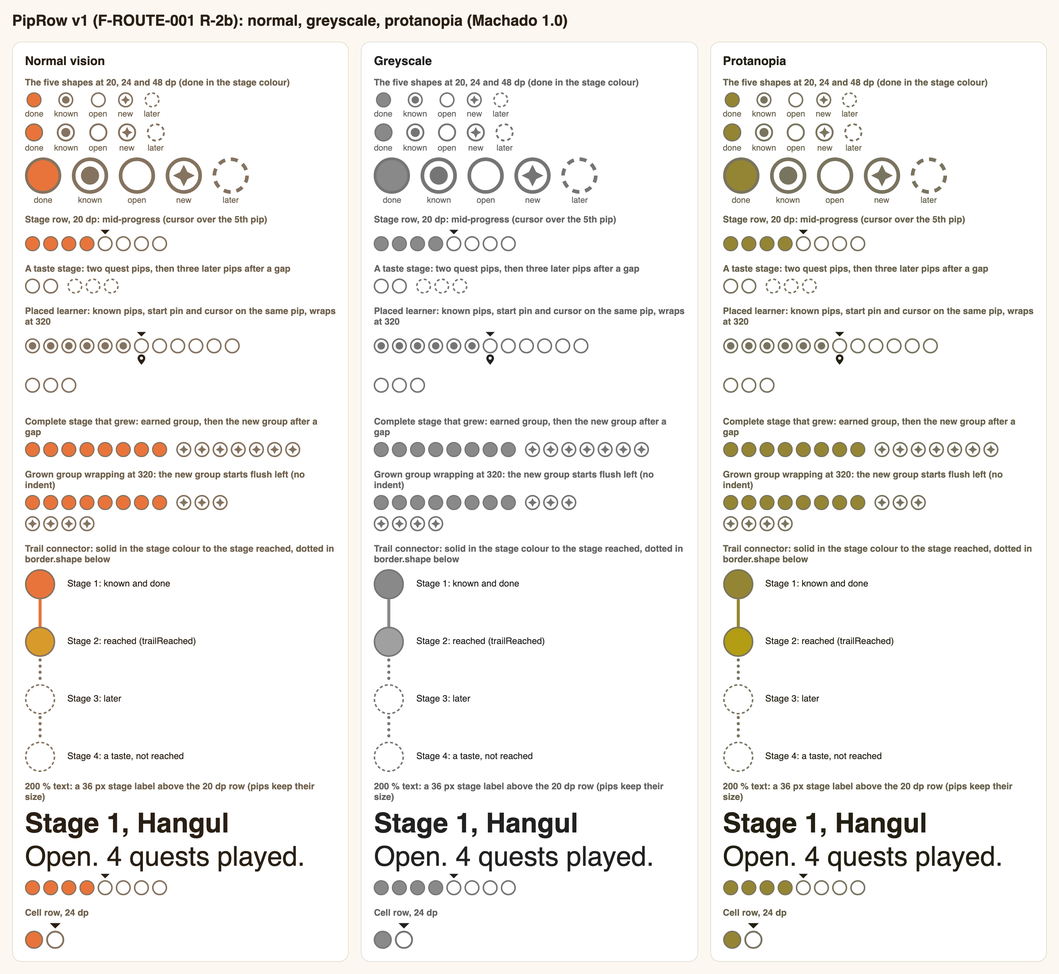
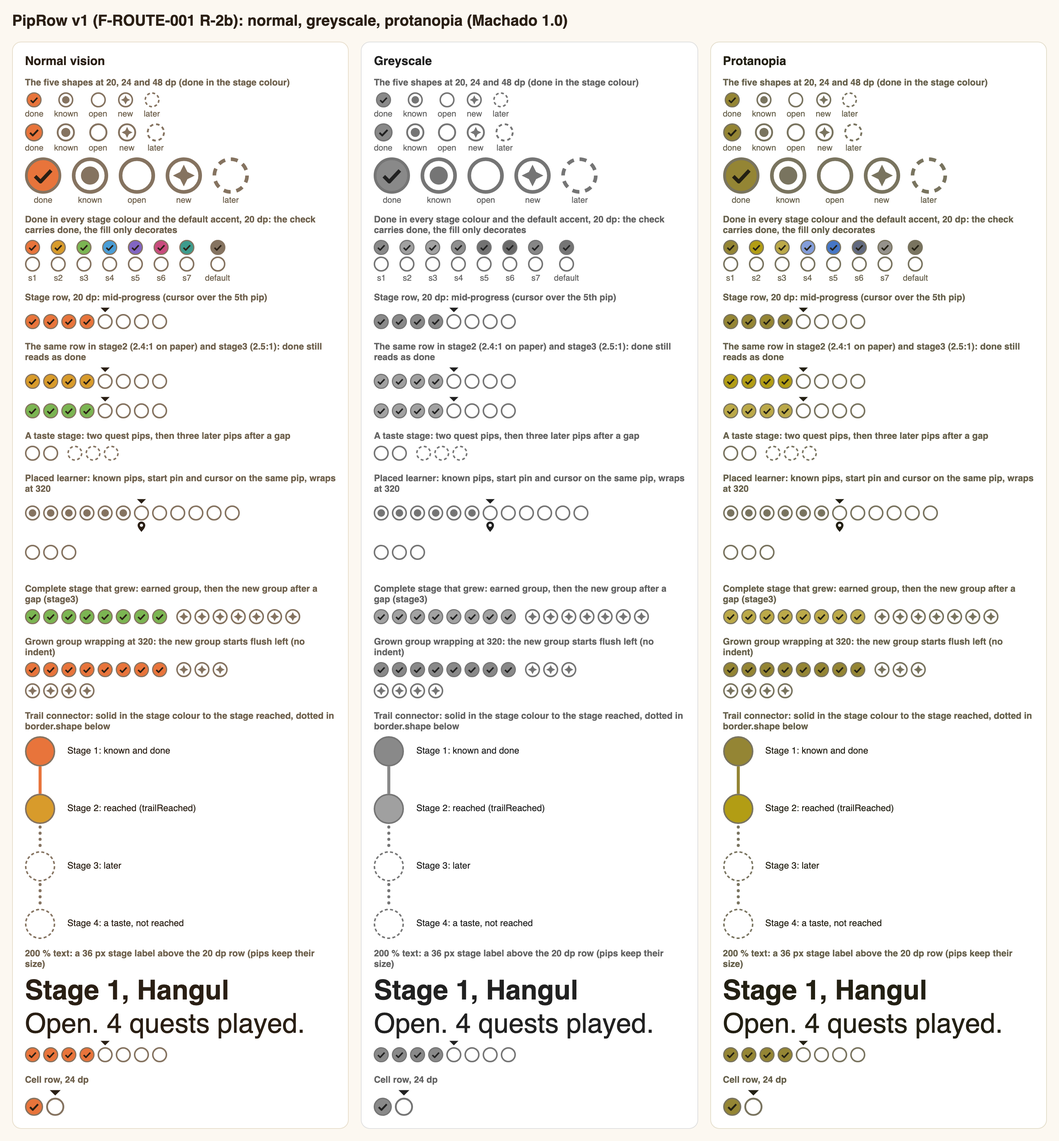
fix(design-system): done pip carries a drawn check, gaps scale with the pips, wrapper and marker contrast tests (F-ROUTE-001 R-2b)
- done = accent disc + border.shape edge + a check stroke in text.primary,
  so done is told from open by geometry, not by a stage fill that is under
  3:1 (stage2/3 everywhere, stage1/4/7 on canvas or sunken)
- geometry tests: geometric signatures instead of the JSON silhouette; the
  check holds 3:1 against every colors.stage value and the default accent
- PipRow scales the pip and group gaps with useMediaSize
- render tests run PipRow and Pip through a mocked useMediaSize (size per
  context, scaled gaps, default accent)
- contrast: text.primary markers on every surface and brand.primaryLight,
  plus the start-pin dot test the old name promised
- design spec: the check, the early-wrap edge case, scaled gaps; preview
  regenerated with every stage colour and stage2/stage3 rows

diff --git a/packages/design-system/src/components/PipRow/__tests__/geometry.test.ts b/packages/design-system/src/components/PipRow/__tests__/geometry.test.ts
@@ -4,6 +4,7 @@ import pipRowSource from '../PipRow.tsx?raw';
 import geometrySource from '../geometry.ts?raw';
 import typesSource from '../types.ts?raw';
 import indexSource from '../index.ts?raw';
+import { WCAG_AA_LARGE, contrastRatio } from '../../../contrast';
 import { colors } from '../../../tokens';
 import {
   LATER_DASHES,
@@ -89,10 +90,25 @@ describe('the five pip shapes', () => {
     }
   });
 
-  it('done: one filled disc in the accent, edged in the mark colour so its edge holds 3:1 whatever the accent', () => {
-    const parts = pipParts('done', 20);
-    expect(parts).toHaveLength(1);
-    expect(parts[0]).toMatchObject({ kind: 'circle', cx: 10, cy: 10, fill: 'accent', stroke: 'mark' });
+  it.each(SIZES)('done: a filled disc in the accent, edged in the mark colour, with a check drawn inside it in ink (%i dp)', (size) => {
+    const [disc, check, ...rest] = pipParts('done', size);
+    expect(rest).toEqual([]);
+    expect(disc).toMatchObject({ kind: 'circle', cx: size / 2, cy: size / 2, fill: 'accent', stroke: 'mark' });
+    expect(check).toMatchObject({ kind: 'path', fill: 'none', stroke: 'ink' });
+    if (disc?.kind !== 'circle' || check?.kind !== 'path') throw new Error('disc and path expected');
+    // An open stroke of three points (no Z): a check, not a closed sparkle or a disc.
+    expect(check.d).not.toMatch(/Z/);
+    const xy = coords(check.d);
+    expect(xy).toHaveLength(6);
+    expect(check.strokeWidth).toBeGreaterThanOrEqual(pipStrokeWidth(size) * 0.9);
+    // Every point plus half the stroke stays inside the disc, clear of its edge.
+    const fillEdge = disc.r - (disc.strokeWidth ?? 0) / 2;
+    for (let i = 0; i < xy.length; i += 2) {
+      expect(Math.hypot(xy[i]! - size / 2, xy[i + 1]! - size / 2) + (check.strokeWidth ?? 0) / 2).toBeLessThan(fillEdge);
+    }
+    // Wide enough to read as a mark at 20 dp, not a speck.
+    const xs = xy.filter((_, i) => i % 2 === 0);
+    expect(Math.max(...xs) - Math.min(...xs)).toBeGreaterThanOrEqual(size * 0.4);
   });
 
   it('open: one ring, 2 dp stroke, no fill', () => {
@@ -141,12 +157,50 @@ describe('the five pip shapes', () => {
     expect(off).toBeGreaterThan(1);
   });
 
-  it('the five shapes are pairwise distinct with colour taken away (greyscale, protanopia)', () => {
-    for (const size of SIZES) {
-      const shapes = PIP_STATES.map((state) => silhouette(pipParts(state, size)));
-      expect(new Set(shapes).size).toBe(PIP_STATES.length);
+  it.each(SIZES)('the five shapes differ in geometry, not in ink: outline and interior mark, accent ignored (%i dp)', (size) => {
+    const signatures = PIP_STATES.map((state) => {
+      const [outer, ...inside] = pipParts(state, size);
+      if (outer?.kind !== 'circle') throw new Error('outer circle expected');
+      // The outline with the fill treated as unknown: a greyscale or colour-blind reader may not see the accent.
+      const outline = outer.dash !== undefined ? 'dashed ring' : 'ring';
+      const interior = inside.map((p) => (p.kind === 'circle' ? 'disc' : p.fill === 'none' ? 'stroke' : 'filled path'));
+      return { state, key: `${outline}|${interior.join('+')}`, inside };
+    });
+    expect(new Set(signatures.map((s) => s.key)).size).toBe(PIP_STATES.length);
+    // Every interior mark is drawn in a non-accent ink, so the mark (not the colour) carries the state.
+    for (const { state, inside } of signatures) {
+      for (const p of inside) {
+        expect(p.fill === 'accent' || p.stroke === 'accent', state).toBe(false);
+        expect(p.fill === 'paper' || p.stroke === 'paper', state).toBe(false);
+      }
+    }
+    // done is told from open by its check, which open does not have, not by the fill alone.
+    expect(signatures.find((s) => s.state === 'done')!.inside.length).toBeGreaterThan(0);
+    expect(signatures.find((s) => s.state === 'open')!.inside).toEqual([]);
+  });
+
+  // Spec 3.14: the stage colour decorates. Whatever accent fills a done disc
+  // (every stage colour, or the default), the check that carries "done" holds
+  // 3:1 against that fill, and the edge holds 3:1 against every surface.
+  const accents = { ...Object.fromEntries(Object.entries(colors.stage).map(([k, v]) => [`stage.${k}`, v])), 'default (border.shape)': colors.border.shape };
+  it.each(Object.entries(accents))('done on a %s fill: the check holds 3:1 against the fill (non-text)', (_name, accent) => {
+    const marks = pipParts('done', 20).slice(1);
+    expect(marks.length).toBeGreaterThan(0);
+    for (const p of marks) {
+      const ink = p.stroke ?? p.fill;
+      if (ink === 'none') throw new Error('a mark needs an ink');
+      expect(contrastRatio(pipInk(ink, accent), accent)).toBeGreaterThanOrEqual(WCAG_AA_LARGE);
     }
   });
+
+  it.each([colors.surface.paper, colors.surface.canvas, colors.surface.sunken, colors.brand.primaryLight])(
+    'done: the disc edge holds 3:1 against the surface %s whatever the fill',
+    (surface) => {
+      const [disc] = pipParts('done', 20);
+      expect(disc).toMatchObject({ stroke: 'mark' });
+      expect(contrastRatio(pipInk('mark', colors.stage.stage2), surface)).toBeGreaterThanOrEqual(WCAG_AA_LARGE);
+    },
+  );
 
   it('only a done pip uses the accent: the stage colour decorates, the shape carries the meaning', () => {
     for (const state of PIP_STATES.filter((s): s is Exclude<PipState, 'done'> => s !== 'done')) {

diff --git a/packages/design-system/src/components/PipRow/__tests__/PipRow.test.tsx b/packages/design-system/src/components/PipRow/__tests__/PipRow.test.tsx
@@ -2,8 +2,8 @@ import React from 'react';
 import { describe, expect, it, vi } from 'vitest';
 import { colors, spacing } from '../../../tokens';
 import { cursorMarkerParts, markerBand, pipInk, pipParts, startBand, startMarkerParts, type PipPart } from '../geometry';
-import { PipParts, PipSvg } from '../Pip';
-import { PipRowBody } from '../PipRow';
+import { Pip, PipParts, PipSvg } from '../Pip';
+import { PipRow, PipRowBody } from '../PipRow';
 
 /**
  * The element trees of PipRow and Pip (component-skill section 3.1), built by
@@ -13,6 +13,8 @@ import { PipRowBody } from '../PipRow';
  */
 vi.mock('react-native', () => ({ View: 'View', useWindowDimensions: () => ({ width: 400, height: 800 }) }));
 vi.mock('react-native-svg', () => ({ default: 'Svg', Svg: 'Svg', Circle: 'Circle', G: 'G', Path: 'Path' }));
+// A regular-class window: every media size is scaled by 1.5 (useMediaSize rounds base x mediaScale).
+vi.mock('../../Layout/LayoutProvider', () => ({ useMediaSize: (base: number) => Math.round(base * 1.5) }));
 
 type Props = Record<string, unknown>;
 type El = React.ReactElement<Props>;
@@ -37,9 +39,11 @@ describe('PipParts: geometry parts as svg', () => {
     });
   });
 
-  it('fills a done disc with the accent and edges it in border.shape', () => {
-    const [disc] = kids(PipParts({ parts: pipParts('done', 20), accent: ACCENT }) as El);
+  it('fills a done disc with the accent, edges it in border.shape and draws the check in text.primary with round ends', () => {
+    const [disc, check] = kids(PipParts({ parts: pipParts('done', 20), accent: ACCENT }) as El);
     expect(disc!.props).toMatchObject({ fill: ACCENT, stroke: colors.border.shape, strokeDasharray: undefined });
+    expect(check!.type).toBe('Path');
+    expect(check!.props).toMatchObject({ fill: 'none', stroke: colors.text.primary, strokeLinecap: 'round', strokeLinejoin: 'round' });
   });
 
   it('draws paths (the sparkle, the markers) with their ink and a round join, offset by offsetY', () => {
@@ -124,5 +128,35 @@ describe('PipRowBody', () => {
   it('reserves only the start band for a start pin without the cursor', () => {
     const [cell] = kids(PipRowBody({ groups: [[{ key: 'a', state: 'open', isStart: true }]], size, accent: ACCENT }) as El);
     expect(kids(cell!)[0]!.props).toMatchObject({ height: size + startBand(size) });
+  });
+});
+
+describe('PipRow and Pip: context to size through useMediaSize, and the default accent', () => {
+  it('a cell row passes the scaled 24 dp size, the scaled gaps and border.shape as the accent to its body', () => {
+    const groups = [[{ key: 'a', state: 'done' as const }]];
+    const el = PipRow({ groups, context: 'cell', testID: 'row' }) as El;
+    expect(el.type).toBe(PipRowBody);
+    expect(el.props).toMatchObject({ groups, size: 36, accent: colors.border.shape, testID: 'row', gaps: { pip: 6, group: 18 } });
+  });
+
+  it('a stage row (the default) passes the scaled 20 dp size and keeps a caller accent', () => {
+    const el = PipRow({ groups: [], accent: colors.stage.stage3 }) as El;
+    expect(el.props).toMatchObject({ size: 30, accent: colors.stage.stage3 });
+  });
+
+  it('the legend pip passes the scaled size per context and border.shape as the default accent', () => {
+    expect((Pip({ state: 'open' }) as El).props).toMatchObject({ state: 'open', size: 30, accent: colors.border.shape });
+    expect((Pip({ state: 'done', context: 'cell', accent: colors.stage.stage2 }) as El).props).toMatchObject({ size: 36, accent: colors.stage.stage2 });
+  });
+
+  it('the body lays the row out with the gaps it is given', () => {
+    const row = PipRowBody({
+      groups: [[{ key: 'a', state: 'done' }], [{ key: 'b', state: 'new' }]],
+      size: 30,
+      accent: ACCENT,
+      gaps: { pip: 6, group: 18 },
+    }) as El;
+    expect(row.props.style).toMatchObject({ columnGap: 6, rowGap: 6 });
+    expect(kids(row).map((c) => (c.props.style as { marginRight: number }).marginRight)).toEqual([12, 0]);
   });
 });

diff --git a/packages/design-system/src/components/PipRow/PipRow.tsx b/packages/design-system/src/components/PipRow/PipRow.tsx
@@ -7,7 +7,13 @@ import { PIP_SIZE, cursorMarkerParts, markerBand, pipParts, pipRowBands, pipRowC
 import { PipParts } from './Pip';
 import type { PipRowProps } from './types';
 
+/** Unscaled gaps: `spacing.xs` between pips and lines, `spacing.md` between groups. */
 const GAPS = { pip: spacing.xs, group: spacing.md } as const;
+
+export interface PipRowGaps {
+  pip: number;
+  group: number;
+}
 
 /**
  * PipRow (F-ROUTE-001 R-2b; design/components/PipRow/spec.md): one drawn
@@ -25,7 +31,9 @@ const GAPS = { pip: spacing.xs, group: spacing.md } as const;
  */
 export function PipRow({ groups, context = 'stage', accent = colors.border.shape, testID }: PipRowProps): React.ReactElement {
   const size = useMediaSize(PIP_SIZE[context]);
-  return <PipRowBody groups={groups} size={size} accent={accent} testID={testID} />;
+  // The gaps scale with the pips, so the group gap still reads as a gap on wide windows (wireframe C5).
+  const gaps = { pip: useMediaSize(GAPS.pip), group: useMediaSize(GAPS.group) };
+  return <PipRowBody groups={groups} size={size} accent={accent} gaps={gaps} testID={testID} />;
 }
 
 /** The row for a resolved pip size, without hooks (tested by calling it). */
@@ -33,8 +41,9 @@ export function PipRowBody({
   groups,
   size,
   accent,
+  gaps = GAPS,
   testID,
-}: Pick<PipRowProps, 'groups' | 'testID'> & { size: number; accent: string }): React.ReactElement {
+}: Pick<PipRowProps, 'groups' | 'testID'> & { size: number; accent: string; gaps?: PipRowGaps }): React.ReactElement {
   const bands = pipRowBands(groups);
   const top = bands.top ? markerBand(size) : 0;
   const height = top + size + (bands.bottom ? startBand(size) : 0);
@@ -44,10 +53,10 @@ export function PipRowBody({
       importantForAccessibility="no-hide-descendants"
       accessibilityElementsHidden
       aria-hidden
-      style={{ flexDirection: 'row', flexWrap: 'wrap', alignItems: 'flex-start', columnGap: GAPS.pip, rowGap: spacing.xs }}
+      style={{ flexDirection: 'row', flexWrap: 'wrap', alignItems: 'flex-start', columnGap: gaps.pip, rowGap: gaps.pip }}
     >
-      {pipRowCells(groups, GAPS).map((cell) => (
-        <View key={cell.key} style={{ marginRight: Math.max(0, cell.trailingGap - GAPS.pip) }}>
+      {pipRowCells(groups, gaps).map((cell) => (
+        <View key={cell.key} style={{ marginRight: Math.max(0, cell.trailingGap - gaps.pip) }}>
           <Svg width={size} height={height} viewBox={`0 0 ${size} ${height}`}>
             {cell.isCursor ? <PipParts parts={cursorMarkerParts(size)} accent={accent} /> : null}
             <PipParts parts={pipParts(cell.state, size)} accent={accent} offsetY={top} />

diff --git a/packages/design-system/src/components/PipRow/geometry.ts b/packages/design-system/src/components/PipRow/geometry.ts
@@ -9,10 +9,11 @@ export type { PipContext, PipState, PipView } from './types';
  * unit-tested in node. A pip is drawn in a `size x size` box; the cursor and
  * start markers each sit in a band of `markerBand(size)` above or below it.
  *
- * The meaning is in the shape, never only in the colour: a done disc, a ring
- * with an inner disc (known), a plain ring (open), a ring with a sparkle (new),
+ * The meaning is in the shape, never only in the colour: a done disc with a
+ * check inside, a ring with an inner disc (known), a plain ring (open), a ring with a sparkle (new),
  * a dotted ring (later). Every outline is `border.shape` (3:1 on every surface);
- * only a done pip uses the caller's accent (the stage colour, decoration).
+ * only a done pip uses the caller's accent (the stage colour, decoration), and
+ * its check in `text.primary` carries the state whatever that accent is.
  */
 
 /** Pip side in dp per context (spec section 3.4). */
@@ -76,13 +77,31 @@ function sparklePath(size: number): string {
   return `${pts.map(([x, y], i) => `${i === 0 ? 'M' : 'L'}${round(x)} ${round(y)}`).join(' ')} Z`;
 }
 
+/**
+ * The check inside a done disc: an open three-point stroke in `ink`. It, not
+ * the accent fill, tells done from open (spec 3.14: the stage colour only
+ * decorates; stage2 and stage3 are 2.4:1 on paper), and `text.primary` holds
+ * at least 3:1 against every stage colour and the default accent (tested).
+ */
+function checkPath(size: number): string {
+  const pts: Array<[number, number]> = [
+    [size * 0.28, size * 0.52],
+    [size * 0.43, size * 0.67],
+    [size * 0.72, size * 0.36],
+  ];
+  return pts.map(([x, y], i) => `${i === 0 ? 'M' : 'L'}${round(x)} ${round(y)}`).join(' ');
+}
+
 /** The parts of one pip, in a `size x size` box, drawn in order. */
 export function pipParts(state: PipState, size: number): PipPart[] {
   const base = ring(size);
   switch (state) {
     case 'done': {
       const edge = pipStrokeWidth(size) * 0.75;
-      return [{ kind: 'circle', cx: size / 2, cy: size / 2, r: size / 2 - edge / 2, fill: 'accent', stroke: 'mark', strokeWidth: edge }];
+      return [
+        { kind: 'circle', cx: size / 2, cy: size / 2, r: size / 2 - edge / 2, fill: 'accent', stroke: 'mark', strokeWidth: edge },
+        { kind: 'path', d: checkPath(size), fill: 'none', stroke: 'ink', strokeWidth: pipStrokeWidth(size) },
+      ];
     }
     case 'known':
       return [base, { kind: 'circle', cx: size / 2, cy: size / 2, r: size / 4, fill: 'mark' }];

diff --git a/packages/design-system/src/__tests__/contrast.test.ts b/packages/design-system/src/__tests__/contrast.test.ts
@@ -132,9 +132,17 @@ describe('token contrast contract (WCAG AA)', () => {
     },
   );
 
-  // The pip markers are drawn in text.primary; the start pin's dot is paper on it.
-  it('PipRow markers (text.primary) on paper and its paper dot ≥ 3:1 (non-text)', () => {
-    expect(contrastRatio(colors.text.primary, colors.surface.paper)).toBeGreaterThanOrEqual(WCAG_AA_LARGE);
+  // The cursor triangle and the start pin are drawn in text.primary on whatever surface the row
+  // sits on; the start pin's paper dot sits on the text.primary drop.
+  it.each([...Object.entries(surfaces), ['brand.primaryLight', colors.brand.primaryLight] as const])(
+    'PipRow markers (text.primary) on %s ≥ 3:1 (non-text)',
+    (_name, bg) => {
+      expect(contrastRatio(colors.text.primary, bg)).toBeGreaterThanOrEqual(WCAG_AA_LARGE);
+    },
+  );
+
+  it('the start pin dot (surface.paper) on its text.primary drop ≥ 3:1 (non-text)', () => {
+    expect(contrastRatio(colors.surface.paper, colors.text.primary)).toBeGreaterThanOrEqual(WCAG_AA_LARGE);
   });
 
   // border.strong stays a quiet divider: it is NOT a 3:1 graphic, which is why the pips need border.shape.

diff --git a/packages/design-system/src/components/PipRow/Pip.tsx b/packages/design-system/src/components/PipRow/Pip.tsx
@@ -24,7 +24,7 @@ export function PipParts({ parts, accent, offsetY = 0 }: { parts: readonly PipPa
             strokeDasharray={part.dash === undefined ? undefined : [...part.dash]}
           />
         ) : (
-          <Path key={index} d={part.d} fill={pipInk(part.fill, accent)} stroke={stroke} strokeWidth={part.strokeWidth} strokeLinejoin="round" />
+          <Path key={index} d={part.d} fill={pipInk(part.fill, accent)} stroke={stroke} strokeWidth={part.strokeWidth} strokeLinecap="round" strokeLinejoin="round" />
         );
       })}
     </G>

diff --git a/design/components/PipRow/spec.md b/design/components/PipRow/spec.md
@@ -2,7 +2,7 @@
 
 Spec: `docs/specs/F-ROUTE-001-my-route-overview.md` §3.4 (pips and cells), §3.5 (cursor), §3.6 (start marker), §3.14 (no colour-only meaning, border token), PR R-2b in §6.1, assumptions (a) and (b) in §9 · wireframe: `design/wireframes/journey/my-route-overview.md` (pip legend; screens A, B, C2, C3, C5, G)
 Code: `packages/design-system/src/components/PipRow/geometry.ts` (pure geometry), `PipRow.tsx`, `Pip.tsx`, `types.ts` · token `colors.border.shape` (`design/tokens/colors.v1.md`) · tests `PipRow/__tests__/geometry.test.ts`, `PipRow/__tests__/PipRow.test.tsx` (element trees: margins, svg height, marker offsets, inks, hiding), `src/__tests__/contrast.test.ts`
-Preview: `pip-row-v1.png`. It shows the five shapes at 20, 24 and 48 dp, the wireframe rows (A mid-progress, a taste stage, C2 placed learner wrapping at 320, C5 the grown group, C5 wrapping at 320, a cell row), the trail connector, and a row under a 200 % text label. Each is drawn three times: normal, greyscale, and protanopia (Machado 1.0). The page is generated from `geometry.ts`, so the preview is the shipped geometry.
+Preview: `pip-row-v1.png`. It shows the five shapes at 20, 24 and 48 dp, a done and an open pip in every stage colour and the default accent, the wireframe rows (A mid-progress, a taste stage, C2 placed learner wrapping at 320, C5 the grown group in stage3, C5 wrapping at 320, a cell row; the mid-progress row is also drawn in stage2 and stage3, the two lowest-contrast stage colours), the trail connector, and a row under a 200 % text label. Each is drawn three times: normal, greyscale, and protanopia (Machado 1.0). The page is generated from `geometry.ts`, so the preview is the shipped geometry.
 
 ## What it is
 
@@ -14,7 +14,7 @@ Drawn in a `size x size` box. `size` is 20 dp in a stage row and 24 dp in a cell
 
 | State | Meaning | Shape | Ink |
 |---|---|---|---|
-| `done` | the quest has `completedAt` | filled disc | fill = the caller's accent (the stage colour, decoration only); edge 0.75 w in `border.shape` |
+| `done` | the quest has `completedAt` | filled disc with a check inside (an open three-point stroke, width w, round ends, spanning 0.28 to 0.72 size) | fill = the caller's accent (the stage colour, decoration only); edge 0.75 w in `border.shape`; check in `text.primary` |
 | `known` | placed out by the level check, **not** done | ring plus a solid inner disc, diameter half the pip, with a visible gap of at least 1 dp | `border.shape` |
 | `open` | playable, not done | ring, stroke w | `border.shape` |
 | `new` | joined a Complete stage after it was completed | ring plus a four-point sparkle inside (tips 0.3 size from the centre) | `border.shape` |
@@ -25,21 +25,21 @@ Drawn in a `size x size` box. `size` is 20 dp in a stage row and 24 dp in a cell
 - Start: a solid map-pin drop in `text.primary` with a paper dot, below the start pip. It sits in a band 0.75 size tall, so the pin is at least 0.6 size tall (12 dp at a 20 dp pip). The pin uses the outline of the `pin` icon glyph, which is also the glyph on the "You started here" tag.
 - A row reserves a band only when one of its pips uses that marker.
 
-**Groups.** `groups` are drawn with a wider gap between them: `spacing.md` between groups, `spacing.xs` between pips, and `spacing.xs` between lines. The group gap trails the last pip of a group (a right margin), so a group that wraps onto a new line starts flush left with the lines above; at the end of a line the extra margin is invisible.
+**Groups.** `groups` are drawn with a wider gap between them: `spacing.md` between groups, `spacing.xs` between pips, and `spacing.xs` between lines. The group gap trails the last pip of a group (a right margin), so a group that wraps onto a new line starts flush left with the lines above. Flex-wrap counts that margin when it decides whether a pip fits, so when the room left on a line is between `size` and `size + (group gap - pip gap)`, the last pip of the group wraps onto the next line early. Order and states are kept; this is accepted as cosmetic (a spacer element would bring the indent back). Both gaps scale with the layout class through `useMediaSize`, like the pips, so the group gap keeps its weight next to 24 and 28 dp pips on regular and wide windows.
 
 **Line pitch.** Every pip cell in a row reserves the same marker bands, so all pips on a line sit at the same height. When a row has a cursor or a start pin and wraps, each line therefore also carries the reserved band room: the visible gap between wrapped lines is `spacing.xs` plus 0.45 size (cursor band) and/or 0.75 size (start band), not `spacing.xs` alone. This is deliberate: reserving a band per line would need layout measurement, and a stage row wraps only in the rare long cases (C2 at 320, a grown group), where the extra room reads as separation, not as a gap in the collection. Wireframe C5 uses this: the earned group first, then the new quests after a gap, so the earned group never looks emptier. The caller can also split quest pips from later pips (wireframe A, Stage 2).
 
 ## Design pass (spec §9 assumptions a and b)
 
-- **(a) Distinct without colour.** Every state differs in geometry, not only in ink. A test replaces every ink with one colour and asserts that the five silhouettes stay pairwise different. The preview checks the same thing by eye at 20 dp in greyscale and protanopia: done (solid disc), known (ring, gap, disc), open (empty ring), new (ring with a sparkle) and later (dashes) all stay apart.
+- **(a) Distinct without colour.** Every state differs in geometry, not only in ink: the outline (ring or dashed ring) and the interior mark (none, a disc, a filled sparkle or a stroked check). The accent fill is never what tells two states apart. Done is told from open by its check, not by the fill: stage2 (#D89B2B, 2.43:1 on paper) and stage3 (#7BB552, 2.45:1) are below 3:1 on every surface, and stage1, stage4 and stage7 are below it on canvas or sunken. The check is `text.primary`, which is 3.52:1 or more against every stage colour and against the default accent (stage5 is the lowest). Tests: the five geometric signatures are pairwise different, no interior mark uses the accent or paper, open has no interior mark, and for every `colors.stage` value and the default the check holds 3:1 against the fill. The preview checks the same thing by eye at 20 dp in greyscale and protanopia: done (disc with a check), known (ring, gap, disc), open (empty ring), new (ring with a sparkle) and later (dashes) all stay apart, in every stage colour.
 - **(a) 200 % text.** Pip size follows the layout class (`useMediaSize`), not the font scale, on purpose: the pips are decoration, the facts are in the row label (which does scale), and scaling the pips with text would double the row length and make it wrap at every width. The preview checks a 20 dp row under a 36 px label (200 % of the 18 body floor): every shape stays distinct and the strokes stay 2 dp, so the row stays legible beside the larger text.
 - **The trail connector (§3.14).** R-3 draws it; this pass checks the pairing. The preview draws stage badges joined at the badge centre, 4 dp wide: **solid** in the stage colour down to `trailReached`, **dotted** (round dots every 8 dp) in `border.shape` below. In greyscale and protanopia the two runs stay apart by shape (a continuous line versus a row of dots), so the connector never relies on colour; the dotted run carries the 3:1 `border.shape` ink.
-- **(b) The border token.** `border.shape` #857360 measures 4.55:1 on paper, 4.29:1 on canvas, 3.84:1 on sunken and 3.42:1 on `brand.primaryLight`. Every pairing clears the 3:1 non-text minimum (WCAG 1.4.11), and `contrast.test.ts` pins each one. `border.strong` (1.9:1 on paper) stays a quiet divider. The stage colours (stage1-4 at 2.3 to 3.0:1) only fill a done disc, whose edge is always `border.shape`.
+- **(b) The border token.** `border.shape` #857360 measures 4.55:1 on paper, 4.29:1 on canvas, 3.84:1 on sunken and 3.42:1 on `brand.primaryLight`. Every pairing clears the 3:1 non-text minimum (WCAG 1.4.11), and `contrast.test.ts` pins each one. `border.strong` (1.9:1 on paper) stays a quiet divider. The stage colours (stage1-4 at 2.3 to 3.0:1) only fill a done disc, whose edge is always `border.shape` and whose check is always `text.primary`. The cursor and start markers (`text.primary`) are 12.1:1 or more on paper, canvas, sunken and `brand.primaryLight` (tested).
 
 ## Rules
 
 - **Drawn, never typed.** Every pip and marker is a `react-native-svg` part. There is no `Text` and no arrow, shape, dingbat or emoji-capable character (such as U+25B6, U+25C0 or U+25BC) in any source file. A test scans the sources.
-- **Tokens only.** The inks are `border.shape`, `text.primary`, `surface.paper` and the caller's accent token. The components contain no colour literal (tested).
+- **Tokens only.** The inks are `border.shape`, `text.primary` (markers and the done check), `surface.paper` and the caller's accent token. The components contain no colour literal (tested).
 - **Decorative.** `PipRow` and `Pip` are hidden from screen readers: `importantForAccessibility="no-hide-descendants"` and `accessibilityElementsHidden` on native, and `aria-hidden` for the web PWA (react-native-web maps only `aria-hidden` to the DOM; `Pip` puts it on a wrapping `View` because the svg may not pass it on). The stage row's accessibility label carries the facts (§3.14). `Pip` draws one shape for the "What the shapes mean" legend, and the caller puts the word next to it.
 - **No ratio, no score.** The row never carries a count, a percentage or an `x / y`. Below 360 dp of width, R-3 shows the stage caption and a plain `Progress` bar instead of the row (§3.4).
 - **No motion in v1.** The one-time fill of a newly done pip (§3.14) belongs to R-3, and only when motion is not reduced.

diff --git a/docs/specs/F-ROUTE-001-my-route-overview.md b/docs/specs/F-ROUTE-001-my-route-overview.md
@@ -321,7 +321,7 @@ export const JourneySummarySchema = z.object({
 ### 3.14 Accessibility
 
 - **Text alternative.** The trail is a list (`accessibilityRole="list"`); each stage row label reads the row: "Stage 1, Hangul. Open. You are here. You started here. 5 quests played." Pips are `importantForAccessibility="no"`.
-- **No colour-only meaning.** Every state has a drawn shape (section 3.4), a word and, on the badge, a glyph. Stage colours decorate only (`packages/design-system/src/tokens.ts:61-71`: stage1-4 are 2.3 to 3.0:1 on canvas). Pip outlines and the dotted connector use a **new border token** that meets 3:1 on `surface.paper`, added through `design/tokens/` and checked by `design-token-sync` (R-2b scope). R-2b acceptance includes a greyscale and protanopia check of all five pip shapes at 20 dp and of the connector. Landed in R-2b: the token is `colors.border.shape` (#857360, 4.55:1 on paper), and the shapes, markers and the design pass are recorded in `design/components/PipRow/spec.md` with the preview `pip-row-v1.png`, which also checks the trail connector (solid in the stage colour, dotted in `border.shape`) in greyscale and protanopia.
+- **No colour-only meaning.** Every state has a drawn shape (section 3.4), a word and, on the badge, a glyph. Stage colours decorate only (`packages/design-system/src/tokens.ts:61-71`: stage1-4 are 2.3 to 3.0:1 on canvas). Pip outlines and the dotted connector use a **new border token** that meets 3:1 on `surface.paper`, added through `design/tokens/` and checked by `design-token-sync` (R-2b scope). R-2b acceptance includes a greyscale and protanopia check of all five pip shapes at 20 dp and of the connector. Landed in R-2b: the token is `colors.border.shape` (#857360, 4.55:1 on paper), and the shapes, markers and the design pass are recorded in `design/components/PipRow/spec.md` with the preview `pip-row-v1.png`, which also checks the trail connector (solid in the stage colour, dotted in `border.shape`) in greyscale and protanopia. A done pip carries a drawn check in `text.primary` (3.5:1 or more on every stage colour), so done never relies on the stage fill.
 - Targets: stage rows, cell rows, hero button, skill rows >= `touchTarget.min`. Body text >= 18; reflow at 320 x 568, landscape and 200 % text.
 - **Reduced motion:** nothing animates by default; the one-time fill of a newly done pip (from `seen.doneKeys`) only when motion is not reduced.
 - Screen-reader order: hero, weekly plan line, trail, practice, gains. Focus lands on the hero sentence.
